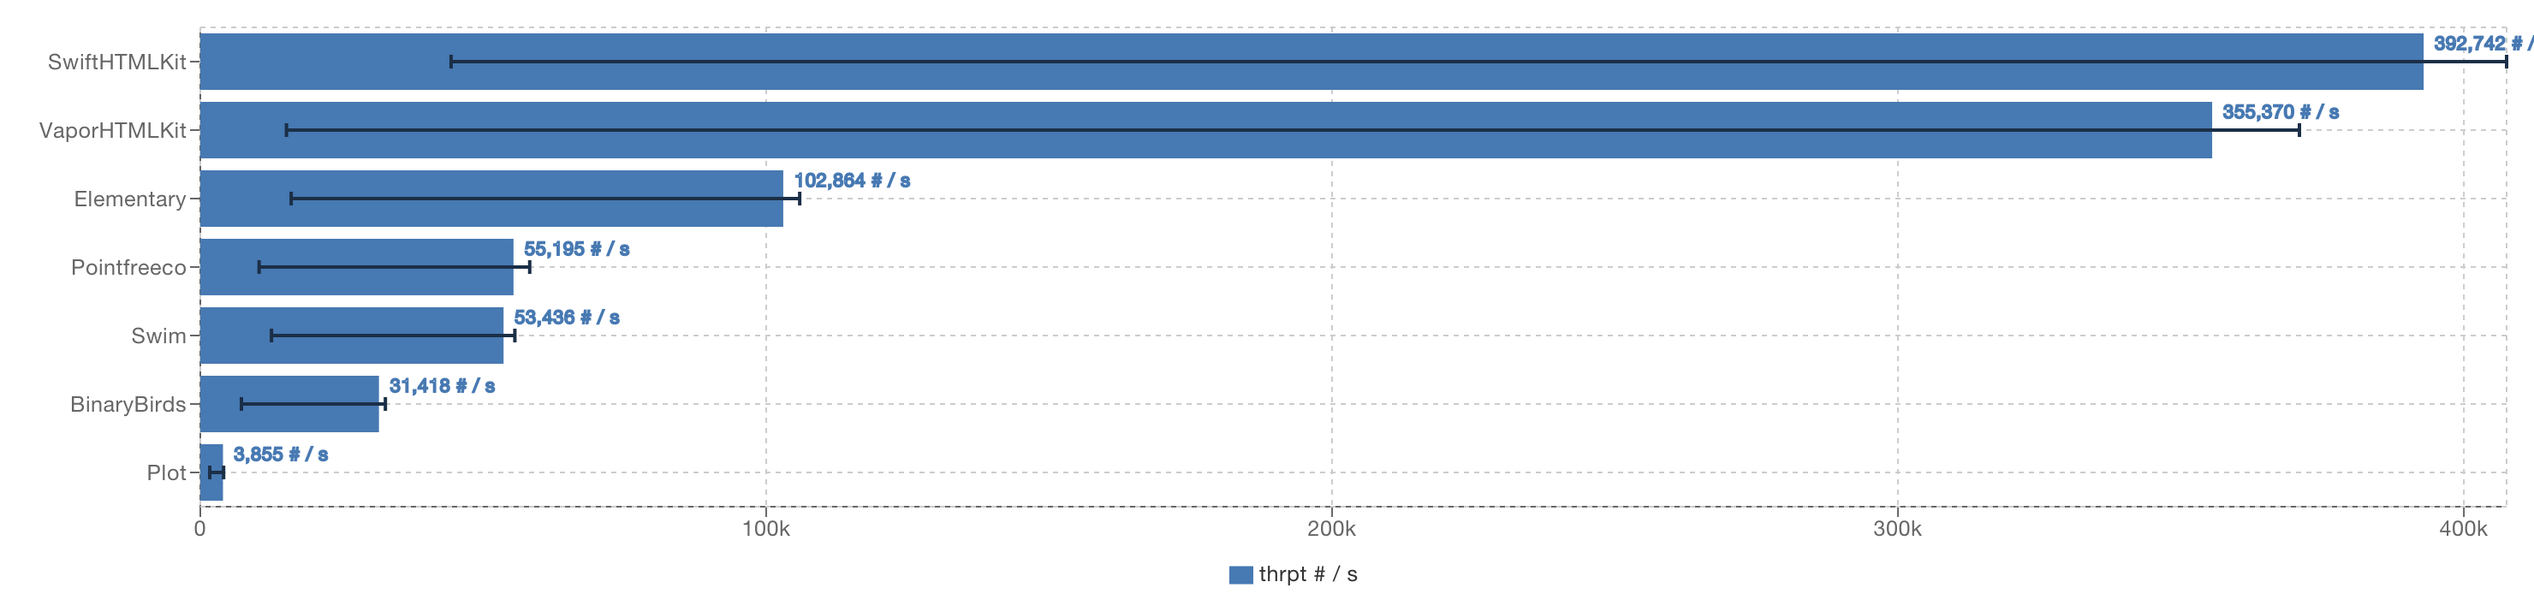
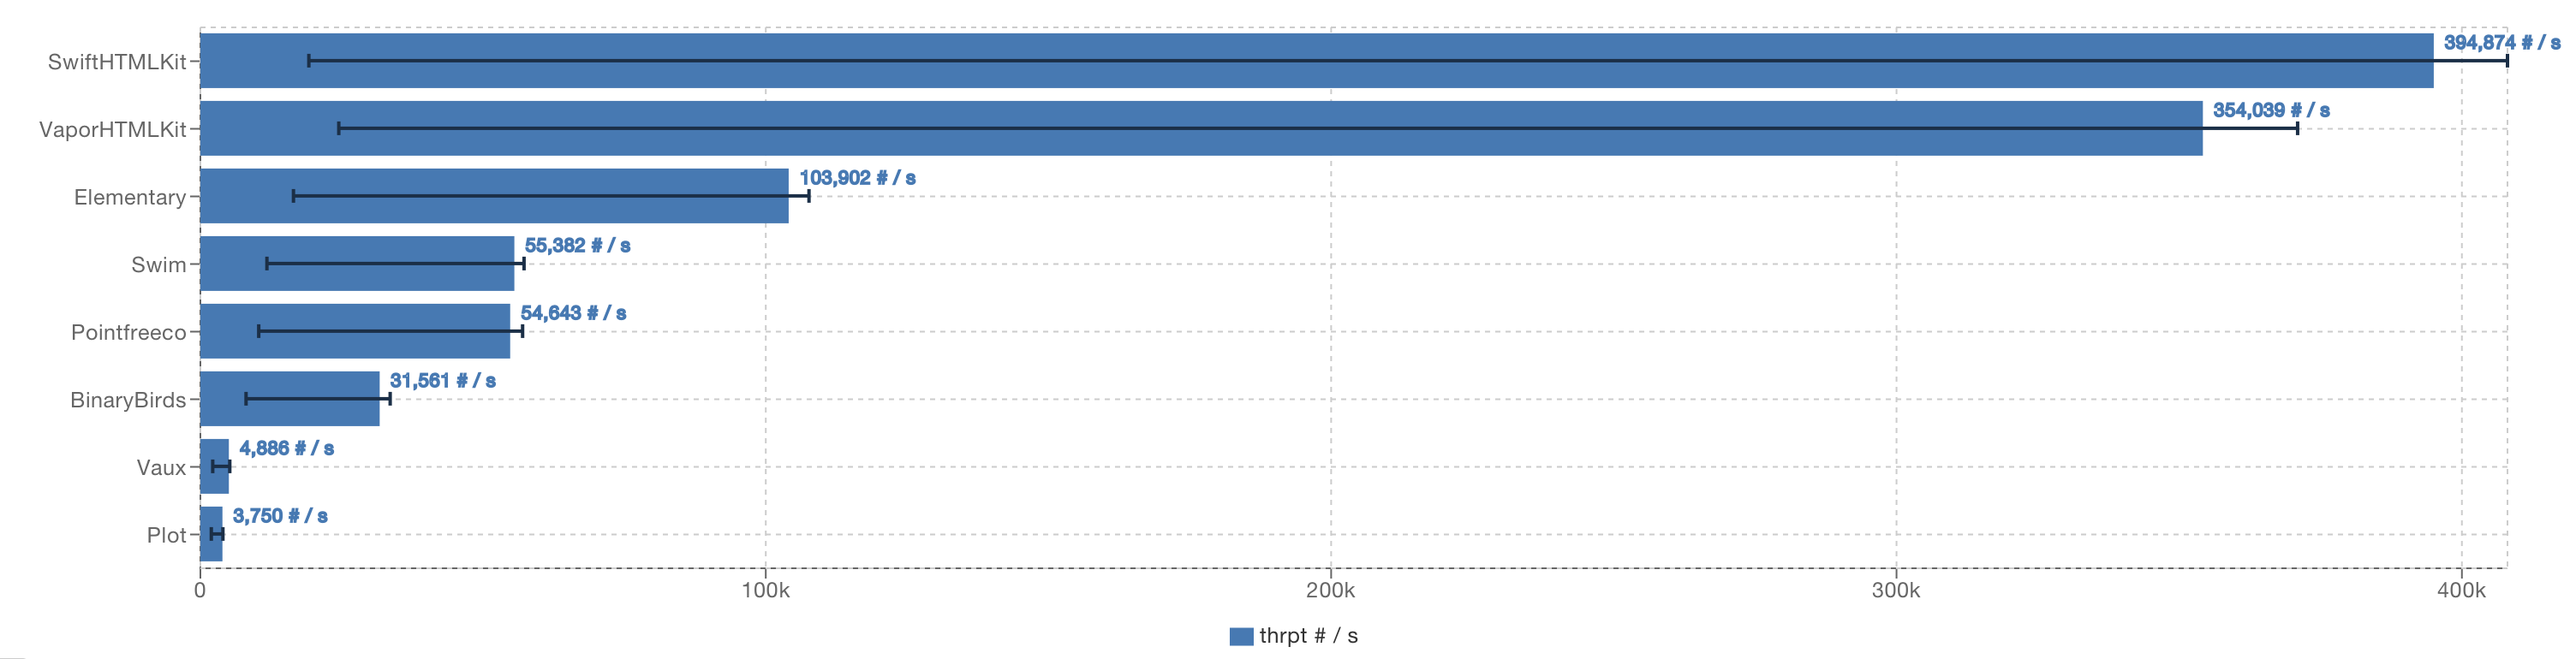
fixed and enabled `Vaux` benchmarks; updated benchmark pngs

diff --git a/Benchmarks/Benchmarks/Vaux/Vaux.swift b/Benchmarks/Benchmarks/Vaux/Vaux.swift
@@ -9,7 +9,10 @@ import Utilities
 import Vaux
 import Foundation
 
-/*
+extension HTML {
+    var rendered : String { String(describing: self) }
+}
+
 package struct VauxTests : HTMLGenerator {
 
     let vaux:Vaux
@@ -18,20 +21,30 @@ package struct VauxTests : HTMLGenerator {
     }
 
     package func staticHTML() -> String {
-        var stream:HTMLOutputStream = HTMLOutputStream(FileHandle.standardOutput, nil)
-        let content = html {
+        html {
             body {
                 heading(.h1) {
                     "Swift HTML Benchmarks"
                 }
             }
-        }
-        stream.render(content)
-        let textoutput:TextOutputStream = stream.output
-        return ""
+        }.rendered
     }
 
     package func dynamicHTML(_ context: HTMLContext) -> String {
-        staticHTML()
+        html {
+            body {
+                heading(.h1) { context.heading }
+                div {
+                    paragraph { context.string }
+                }.id("desc")
+                heading(.h2) { context.user.details_heading }
+                heading(.h3) { context.user.qualities_heading }
+                list {
+                    forEach(context.user.qualities) {
+                        listItem(label: $0)
+                    }
+                }.id("user-qualities")
+            }
+        }.rendered
     }
-}*/
+}

diff --git a/Benchmarks/Package.swift b/Benchmarks/Package.swift
@@ -18,7 +18,7 @@ let package = Package(
         .package(url: "https://github.com/JohnSundell/Plot", from: "0.14.0"),
         //.package(url: "https://github.com/toucansites/toucan", from: "1.0.0-alpha.1"), // unstable
         .package(url: "https://github.com/RandomHashTags/fork-Swim", branch: "main"),
-        .package(url: "https://github.com/dokun1/Vaux", from: "0.2.0"), // result limitation
+        .package(url: "https://github.com/dokun1/Vaux", from: "0.2.0"),
         .package(url: "https://github.com/vapor/leaf", from: "4.4.0"),
     ],
     targets: [
@@ -106,6 +106,24 @@ let package = Package(
                 .product(name: "Vaux", package: "Vaux")
             ],
             path: "Benchmarks/Vaux"
+        ),
+
+        .testTarget(
+            name: "UnitTests",
+            dependencies: [
+                "Utilities",
+                "TestElementary",
+                "TestLeaf",
+                "TestPlot",
+                "TestSwiftHTMLBB",
+                "TestSwiftHTMLKit",
+                "TestSwiftHTMLPF",
+                "TestSwim",
+                "TestToucan",
+                "TestVaporHTMLKit",
+                "TestVaux",
+            ],
+            path: "Benchmarks/UnitTests"
         ),
 
         .executableTarget(

diff --git a/Benchmarks/Benchmarks/Benchmarks/Benchmarks.swift b/Benchmarks/Benchmarks/Benchmarks/Benchmarks.swift
@@ -28,7 +28,8 @@ let benchmarks = {
         "Pointfreeco" : SwiftHTMLPFTests(),
         "SwiftHTMLKit" : SwiftHTMLKitTests(),
         "Swim" : SwimTests(),
-        "VaporHTMLKit" : VaporHTMLKitTests()
+        "VaporHTMLKit" : VaporHTMLKitTests(),
+        "Vaux" : VauxTests()
     ]
 
     /*for (key, value) in libraries {

diff --git a/Benchmarks/Benchmarks/UnitTests/UnitTests.swift b/Benchmarks/Benchmarks/UnitTests/UnitTests.swift
@@ -1,0 +1,17 @@
+//
+//  UnitTests.swift
+//
+//
+//  Created by Evan Anderson on 10/6/24.
+//
+
+import Testing
+import Utilities
+
+import TestVaux
+
+struct UnitTests {
+    @Test func vaux() {
+        #expect(VauxTests().staticHTML() != "")
+    }
+}

diff --git a/README.md b/README.md
@@ -155,6 +155,7 @@ Use the `HTMLElementAttribute.event(<type>, "<value>")`.
   - [pointfreeco/swift-html](https://github.com/pointfreeco/swift-html) v0.4.1
   - [robb/Swim](https://github.com/robb/Swim) v0.4.0 (fixed version [here](https://github.com/RandomHashTags/fork-Swim))
   - [vapor-community/HTMLKit](https://github.com/vapor-community/HTMLKit) v2.8.1
+  - [dokun1/Vaux](https://github.com/dokun1/Vaux) v0.2.0
 
 Using iMac (i9 9900k, 72GB RAM, 2TB) with macOS 15.0 and the Swift 6 compiler.
 
